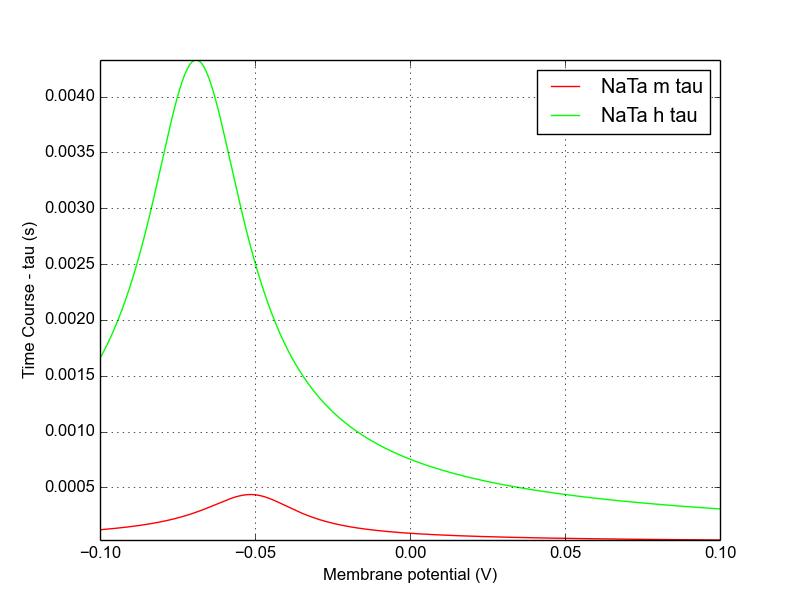
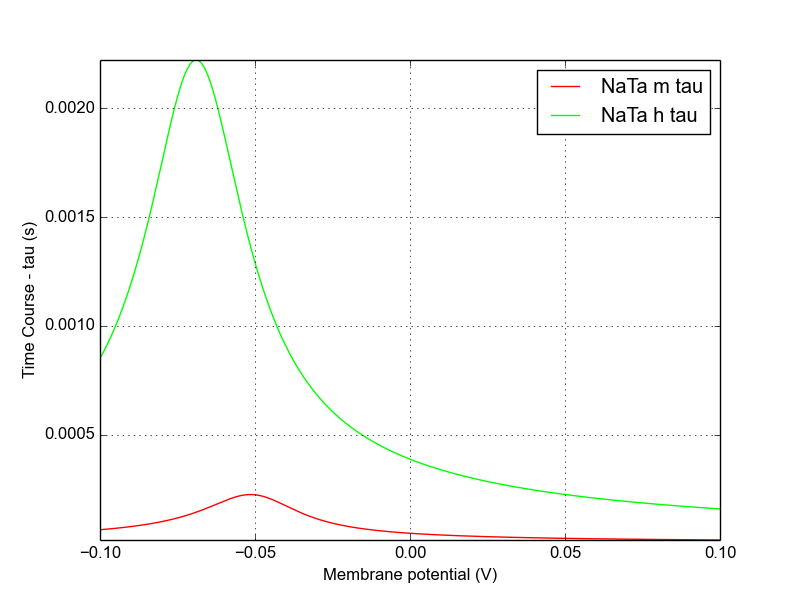
Added and tested NaTs

diff --git a/CellTypesDatabase/models/NeuroML2/channel_summary/ChannelInfo.html b/CellTypesDatabase/models/NeuroML2/channel_summary/ChannelInfo.html
@@ -2,7 +2,7 @@
     <title>Channel information</title>
     
     <body>
-        <p style="font-family:arial">Channel information at: T = 26.0 degC, E_rev = 0 mV, [Ca2+] = 0.00043 mM</p>
+        <p style="font-family:arial">Channel information at: T = 34.0 degC, E_rev = 0 mV, [Ca2+] = 0.00043 mM</p>
         <table>
             <tr>
         <td width="130px">
@@ -11,6 +11,9 @@
             <p style="font-size:80%;background-color:#1E90FF;"><b>Ion: na</b></p>
             <p style="font-size:80%;font-family:arial">g = gmax * m<sup>3</sup> * h </p><br/>
             <p style="font-size:80%;font-family:arial">Fast inactivating Na+ current
+Modified slightly for Allen Institute cell models from Hay et al. 2011 version:
+ - Added Q10 scaling to rate variables 
+ - Values for midpoint changed to match mod            
             
 Comment from original mod file: 
 :Reference :Colbert and Pan 2002</p><br/>
@@ -20,6 +23,68 @@ Comment from original mod file:
         </td>
         <td>
         <a href="NaTa.tau.png"><img alt="NaTa time course" src="NaTa.tau.png" height="300"/></a>
+        </td>
+        </tr>
+            <tr>
+        <td width="130px">
+            <p style="font-size:80%;font-family:arial"><b>NaTs</b></p>
+            <p style="font-size:80%;font-family:arial"><a href="../NaTs.channel.nml">NaTs.channel.nml</a></p>
+            <p style="font-size:80%;background-color:#1E90FF;"><b>Ion: na</b></p>
+            <p style="font-size:80%;font-family:arial">g = gmax * m<sup>3</sup> * h </p><br/>
+            <p style="font-size:80%;font-family:arial">Fast inactivating Na+ current. 
+Modified slightly for Allen Institute cell models from Hay et al. 2011 version:
+            
+            
+Comment from mod file (NaTs2_t.mod): took the NaTa and shifted both activation/inactivation by 6 mv</p><br/>
+        </td>
+        <td>
+        <a href="NaTs.inf.png"><img alt="NaTs steady state" src="NaTs.inf.png" height="300"/></a>
+        </td>
+        <td>
+        <a href="NaTs.tau.png"><img alt="NaTs time course" src="NaTs.tau.png" height="300"/></a>
+        </td>
+        </tr>
+            <tr>
+        <td width="130px">
+            <p style="font-size:80%;font-family:arial"><b>Ca_LVA</b></p>
+            <p style="font-size:80%;font-family:arial"><a href="../Ca_LVA.channel.nml">Ca_LVA.channel.nml</a></p>
+            <p style="font-size:80%;background-color:#8FBC8F;"><b>Ion: ca</b></p>
+            <p style="font-size:80%;font-family:arial">g = gmax * m<sup>2</sup> * h </p><br/>
+            <p style="font-size:80%;font-family:arial">Low voltage activated Ca2+ current
+Modified slightly for Allen Institute cell models from Hay et al. 2011 version:
+ - Added Q10 scaling to rate variables 
+            
+Comment from original mod file: 
+Note: mtau is an approximation from the plots
+:Reference : :		Avery and Johnston 1996, tau from Randall 1997
+:Comment: shifted by -10 mv to correct for junction potential
+:Comment: corrected rates using q10 = 2.3, target temperature 34, orginal 21</p><br/>
+        </td>
+        <td>
+        <a href="Ca_LVA.inf.png"><img alt="Ca_LVA steady state" src="Ca_LVA.inf.png" height="300"/></a>
+        </td>
+        <td>
+        <a href="Ca_LVA.tau.png"><img alt="Ca_LVA time course" src="Ca_LVA.tau.png" height="300"/></a>
+        </td>
+        </tr>
+            <tr>
+        <td width="130px">
+            <p style="font-size:80%;font-family:arial"><b>Ca_HVA</b></p>
+            <p style="font-size:80%;font-family:arial"><a href="../Ca_HVA.channel.nml">Ca_HVA.channel.nml</a></p>
+            <p style="font-size:80%;background-color:#8FBC8F;"><b>Ion: ca</b></p>
+            <p style="font-size:80%;font-family:arial">g = gmax * m<sup>2</sup> * h </p><br/>
+            <p style="font-size:80%;font-family:arial">High voltage activated Ca2+ current. 
+NOTE: Most Allen Institute channel models from Hay et al. 2011 use Q10 scaling. This one doesn't...
+See https://github.com/OpenSourceBrain/AllenInstituteNeuroML/issues/2
+            
+Comment from original mod file: 
+Reuveni, Friedman, Amitai, and Gutnick, J.Neurosci. 1993</p><br/>
+        </td>
+        <td>
+        <a href="Ca_HVA.inf.png"><img alt="Ca_HVA steady state" src="Ca_HVA.inf.png" height="300"/></a>
+        </td>
+        <td>
+        <a href="Ca_HVA.tau.png"><img alt="Ca_HVA time course" src="Ca_HVA.tau.png" height="300"/></a>
         </td>
         </tr>
         </table>

diff --git a/CellTypesDatabase/models/NeuroML2/compare_nml2_mods.py b/CellTypesDatabase/models/NeuroML2/compare_nml2_mods.py
@@ -5,13 +5,14 @@ import os.path
 
 chans = ['K_Tst', 'K_Pst', 'NaTa', 'Nap_Et2', 'NaTs2_t', 'Ih', 'Ca_LVAst', 'Ca_HVA', 'SKv3_1', 'KdShu2007']
 chans = ['Ca_LVA', 'NaTa']
-chans = ['NaTa']
+chans = ['NaTs']
 
 problematic = ['Im']
 
 gates = ['m', 'h']
 
 temperatures = [26]
+temperatures = [26,34]
 
 for temperature in temperatures:
 

diff --git a/CellTypesDatabase/models/NeuroML2/channel_summary/README.md b/CellTypesDatabase/models/NeuroML2/channel_summary/README.md
@@ -1,7 +1,7 @@
 Channel information
 ===================
     
-<p style="font-family:arial">Channel information at: T = 26.0 degC, E_rev = 0 mV, [Ca2+] = 0.00043 mM</p>
+<p style="font-family:arial">Channel information at: T = 34.0 degC, E_rev = 0 mV, [Ca2+] = 0.00043 mM</p>
 
 <table>
     <tr>
@@ -11,6 +11,9 @@ Channel information
             <b>Ion: na</b><br/>
             <i>g = gmax * m<sup>3</sup> * h </i><br/>
             Fast inactivating Na+ current
+Modified slightly for Allen Institute cell models from Hay et al. 2011 version:
+ - Added Q10 scaling to rate variables 
+ - Values for midpoint changed to match mod            
             
 Comment from original mod file: 
 :Reference :Colbert and Pan 2002</sup>
@@ -20,6 +23,68 @@ Comment from original mod file:
 </td>
 <td>
 <a href="NaTa.tau.png"><img alt="NaTa time course" src="NaTa.tau.png" height="220"/></a>
+</td>
+</tr>
+    <tr>
+<td width="120px">
+            <sup><b>NaTs</b><br/>
+            <a href="../NaTs.channel.nml">NaTs.channel.nml</a><br/>
+            <b>Ion: na</b><br/>
+            <i>g = gmax * m<sup>3</sup> * h </i><br/>
+            Fast inactivating Na+ current. 
+Modified slightly for Allen Institute cell models from Hay et al. 2011 version:
+            
+            
+Comment from mod file (NaTs2_t.mod): took the NaTa and shifted both activation/inactivation by 6 mv</sup>
+</td>
+<td>
+<a href="NaTs.inf.png"><img alt="NaTs steady state" src="NaTs.inf.png" height="220"/></a>
+</td>
+<td>
+<a href="NaTs.tau.png"><img alt="NaTs time course" src="NaTs.tau.png" height="220"/></a>
+</td>
+</tr>
+    <tr>
+<td width="120px">
+            <sup><b>Ca_LVA</b><br/>
+            <a href="../Ca_LVA.channel.nml">Ca_LVA.channel.nml</a><br/>
+            <b>Ion: ca</b><br/>
+            <i>g = gmax * m<sup>2</sup> * h </i><br/>
+            Low voltage activated Ca2+ current
+Modified slightly for Allen Institute cell models from Hay et al. 2011 version:
+ - Added Q10 scaling to rate variables 
+            
+Comment from original mod file: 
+Note: mtau is an approximation from the plots
+:Reference : :		Avery and Johnston 1996, tau from Randall 1997
+:Comment: shifted by -10 mv to correct for junction potential
+:Comment: corrected rates using q10 = 2.3, target temperature 34, orginal 21</sup>
+</td>
+<td>
+<a href="Ca_LVA.inf.png"><img alt="Ca_LVA steady state" src="Ca_LVA.inf.png" height="220"/></a>
+</td>
+<td>
+<a href="Ca_LVA.tau.png"><img alt="Ca_LVA time course" src="Ca_LVA.tau.png" height="220"/></a>
+</td>
+</tr>
+    <tr>
+<td width="120px">
+            <sup><b>Ca_HVA</b><br/>
+            <a href="../Ca_HVA.channel.nml">Ca_HVA.channel.nml</a><br/>
+            <b>Ion: ca</b><br/>
+            <i>g = gmax * m<sup>2</sup> * h </i><br/>
+            High voltage activated Ca2+ current. 
+NOTE: Most Allen Institute channel models from Hay et al. 2011 use Q10 scaling. This one doesn't...
+See https://github.com/OpenSourceBrain/AllenInstituteNeuroML/issues/2
+            
+Comment from original mod file: 
+Reuveni, Friedman, Amitai, and Gutnick, J.Neurosci. 1993</sup>
+</td>
+<td>
+<a href="Ca_HVA.inf.png"><img alt="Ca_HVA steady state" src="Ca_HVA.inf.png" height="220"/></a>
+</td>
+<td>
+<a href="Ca_HVA.tau.png"><img alt="Ca_HVA time course" src="Ca_HVA.tau.png" height="220"/></a>
 </td>
 </tr>
 </table>
